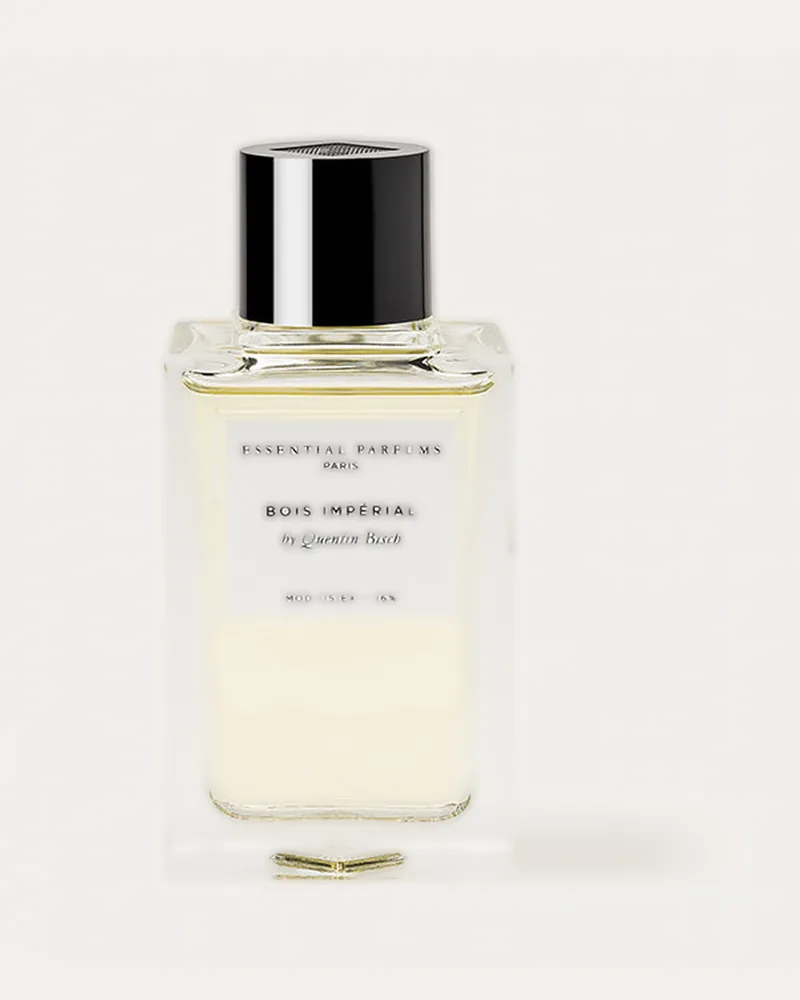
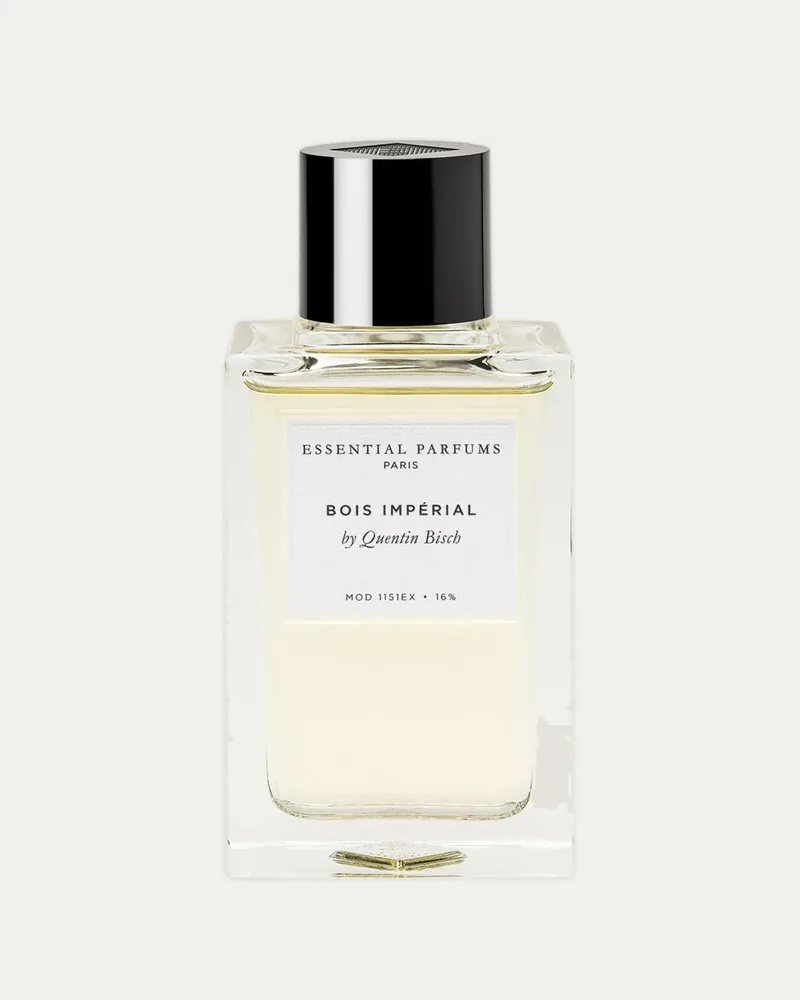
Zdjęcia: plik ze strony, gdy arkusz nie podaje zdjęcia; ostrzejsze Bois Impérial i Velvet Iris (decyzja 80)
Na żywo p83 Oud Satin Mood i p98 Wet Cherry Liquor miały kadr zastępczy,
bo w arkuszu sklepu komórki zdjecie_url są puste. app.js uzupełnia puste
pole plikiem /img/produkty/{id}-800.webp, jeśli jest na stronie; test
pilnuje zgodności listy z plikami. Nowe zdjęcia p44 i p80 z Dysku.

Claude-Session: https://claude.ai/code/session_01Vr3aaGiTkwi36SuxXxU5aS

diff --git a/dev/testy_backendu.js b/dev/testy_backendu.js
@@ -584,6 +584,24 @@ test('aktualizacja arkusza 2026-10: z importu wrześniowego i po poprzedniej akt
   });
 });
 
+test('zdjęcia: lista w app.js zgadza się z plikami, puste zdjecie z arkusza dostaje plik ze strony', () => {
+  const fs = require('fs'), path = require('path');
+  const site = path.join(__dirname, '..', 'site');
+  const src = fs.readFileSync(path.join(site, 'js', 'app.js'), 'utf8');
+  const lista = src.match(/var ZDJECIA = '([^']*)'/)[1].split(' ').map((n) => 'p' + n);
+  const pliki = fs.readdirSync(path.join(site, 'img', 'produkty')).filter((f) => /^p\d+-800\.webp$/.test(f)).map((f) => f.split('-')[0]);
+  deq(lista.slice().sort(), pliki.slice().sort());
+  lista.forEach((id) => assert.ok(fs.existsSync(path.join(site, 'img', 'produkty', id + '-400.webp')), id + '-400.webp'));
+  // każdy aktywny zapach z arkusza ma plik, więc pusta komórka zdjecie_url nie zostawia kadru zastępczego
+  const cat = be.buildCatalog_(productRows, setRows, {}, cfg, NOW);
+  const bez = cat.products.filter((p) => lista.indexOf(p.id) === -1).map((p) => p.id);
+  deq(bez, []);
+  // ta sama funkcja co w przeglądarce: uzupełnia tylko puste pole
+  const withPhotos = new Function('ZDJECIA', 'return ' + src.match(/function withPhotos\(data\) \{[\s\S]*?\n  \}/)[0])(lista.map((id) => id.slice(1)));
+  const d = withPhotos({ products: [{ id: 'p83', zdjecie: '' }, { id: 'p98' }, { id: 'p44', zdjecie: '/img/inne.webp' }, { id: 'p999', zdjecie: '' }] });
+  deq(d.products.map((p) => p.zdjecie), ['/img/produkty/p83-800.webp', '/img/produkty/p98-800.webp', '/img/inne.webp', '']);
+});
+
 (async () => {
   for (const [name, fn] of tests) {
     try { await fn(); passed++; console.log('ok   ' + name); } catch (e) { console.log('FAIL ' + name + '\n     ' + e.message); process.exitCode = 1; }

diff --git a/site/js/app.js b/site/js/app.js
@@ -95,12 +95,22 @@
     if (inflight && !force) return inflight;
     var p = N.fetchCatalog(force);
     inflight = p.then(function (data) {
-      memory = data;
+      memory = data = withPhotos(data);
       ss('set', CAT_KEY, JSON.stringify({ t: Date.now(), data: data }));
       inflight = null;
       return data;
     }, function (err) { inflight = null; throw err; });
     return inflight;
+  }
+
+  // Zapachy, których zdjęcie leży na stronie (site/img/produkty/pNN-800.webp). Gdy w arkuszu komórka zdjecie_url
+  // jest pusta, karta i szczegóły biorą ten plik zamiast kadru zastępczego. Listę pilnuje test w dev/testy_backendu.js.
+  var ZDJECIA = '01 02 03 04 05 06 07 08 09 10 11 12 14 15 16 17 19 20 21 22 23 24 25 27 28 29 30 31 32 33 34 35 36 37 38 39 40 41 42 43 44 45 46 47 48 49 50 51 52 53 54 55 56 59 61 62 63 64 65 66 67 68 69 70 71 72 73 74 75 76 77 78 79 80 81 82 83 84 85 86 87 88 89 90 91 92 93 94 95 96 97 98 99 100'.split(' ');
+  function withPhotos(data) {
+    ((data && data.products) || []).forEach(function (p) {
+      if (!p.zdjecie && ZDJECIA.indexOf(String(p.id).slice(1)) !== -1) p.zdjecie = '/img/produkty/' + p.id + '-800.webp';
+    });
+    return data;
   }
 
   function catalog(force) {
@@ -109,7 +119,7 @@
     var saved = null;
     try { saved = JSON.parse(ss('get', CAT_KEY) || 'null'); } catch (e) { saved = null; }
     if (saved && saved.data) {
-      memory = saved.data;
+      memory = withPhotos(saved.data);
       if (Date.now() - saved.t > FRESH_MS) {
         fetchFresh(true).then(function (d) { listeners.forEach(function (fn) { fn(d); }); }, function () {});
       }

diff --git a/dev/zdjecia/zdjecia_wlasciciela.py b/dev/zdjecia/zdjecia_wlasciciela.py
@@ -29,9 +29,9 @@ MIN_SIDE = 1000
 JASNE = 250          # tło JPG: piksele jaśniejsze od tego progu, połączone z krawędzią, stają się czystą bielą
 # PNG, w których wokół flakonu zostały nieprzezroczyste białe resztki tła (p64: pola obok nakrętki)
 RESZTKI_BIELI = {'p64': 245}
-# Flakon, który w źródle dotyka górnej i dolnej krawędzi (p93 biały na białym, p98): biały margines (część wysokości) i niższa
+# Flakon, który w źródle dotyka krawędzi (p93 biały na białym, p98, p44): biały margines (część wysokości) i niższa
 # czułość w ujednolic_zdjecia.py (ustawienia.json), inaczej tło wokół flakonu zostaje jako biały prostokąt.
-MARGINES = {'p93': 0.12, 'p98': 0.12}
+MARGINES = {'p93': 0.12, 'p98': 0.12, 'p44': 0.12}
 USTAWIENIA = {'p93': {'tol': 10}}
 
 # id: plik od właściciela. Większość z folderu na Dysku; p51 i p52 przysłane później w rozmowie („(czat)” w nazwie):
@@ -67,6 +67,9 @@ PLIKI = {
     'p81': 'ambre.jpg',
     'p83': 'oud.jpg',
     'p98': 'packshot_wet_cherry_liquor_2.png',
+    # 8.10 późnym wieczorem: ostrzejsze zdjęcia dwóch zapachów Essential Parfums w miejsce zdjęć ze strony marki
+    'p44': 'i-essential-parfums-bois-imp-rial-woda-perfumowana-100ml.webp',
+    'p80': 'velvet_iris.jpg',
 }
 
 

diff --git a/docs/decyzje.md b/docs/decyzje.md
@@ -125,12 +125,14 @@
 | 77 | Arkusz wdrożony, ostatnie zdjęcia | 8.10.2026 wieczorem właściciel wkleił nowy `Code.gs` i `Aktualizacja_2026_10.gs`, uruchomił `setup` i `aktualizacja_2026_10` i opublikował nową wersję wdrożenia. API od 20:31 UTC zwraca nowy format: 94 zapachy, 12 bestsellerów, 3 nowości, klimat przy 94 i odbiór przy 30 zapachach, `sprzedaz: false`; nazwy, opisy, profile, klimaty, etykiety, podobne i zdjęcia zgadzają się z `site/podglad/katalog.json` (0 różnic). Na żywo: koszyk pokazuje „Zamówienia ruszą wkrótce”, na /zamowienie 5 sekcji formularza jest wyłączonych, quiz „Dla niej” bez zapachów odbieranych jako męskie. Przez około 5 minut po wdrożeniu API zwracało stary format, bo katalog zbudowany przez poprzednią wersję leżał w pamięci podręcznej (`CACHE_SECONDS`). Plik aktualizacji ma dane w krótkich liniach: wersja z jedną linią na ok. 80 tys. znaków wklejała się z podglądu pliku tylko w części. Ostatnie zdjęcia od właściciela: p83 Oud Satin Mood, p98 Wet Cherry Liquor (z marginesem) i p81 Ambre Latte w miejsce zdjęcia producenta; zdjęcie mają wszystkie 94 aktywne zapachy. | właściciel |
 | 78 | Bestsellery i nowości w katalogu | Właściciel: opcja wyboru po bestsellerach i nowościach. Nad wynikami katalogu dwa przyciski „Bestsellery” i „Nowości” z liczbą zapachów i kropką w kolorze etykiety z karty (widoczne też na telefonie, gdzie reszta filtrów jest w szufladzie), w panelu filtrów sekcja „Wyróżnione” (Wszystkie, Bestsellery, Nowości). Wybór pokazuje się jako usuwalny chip i łączy z innymi filtrami. Adres `?pokaz=bestsellery` albo `?pokaz=nowosci` otwiera katalog z tym wyborem (np. link z Instagrama). Bez bestsellerów albo nowości w arkuszu przycisk się nie pokazuje. Przy okazji naprawiony stary błąd paska: przy 360 px i węższych przycisk „Filtry” zachodził na przełącznik „Rodziny / Marki” (przy 390 px po pojawieniu się licznika). Teraz przełącznik i „Filtry” są w jednym rzędzie, który zawija się zamiast nachodzić, a poniżej 30rem przełącznik ma krótsze etykiety „Rodziny / Marki”; sprawdzone przy 320, 360, 390, 430, 768, 1024 i 1280 px: bez nakładania i bez przewijania w bok. | właściciel, wniosek |
 | 79 | Hero: oddalone zdjęcie, cień pod paskiem, odstęp linii tytułu | Właściciel (8.10.2026, zrzut z monitora 1920 px): grafikę w hero oddalić, bo jest jej za dużo; zacienić pasek na górze; „Za ułamek ceny” nie może nachodzić na „Zapach z najwyższej półki”, więc trochę odstępu i ewentualnie delikatnie mniejsza druga linia. Przy oknie ok. 1920 × 930 px hero miało 1071 px wysokości, więc magnolia i kamień były ucięte dolną krawędzią ekranu. **Od 64rem w poziomie i od 80rem:** hero ma wysokość ekranu (`--screen-h`), ale nie więcej niż dotąd (zdjęcie na całą szerokość) i nie mniej niż tekst. Zdjęcie ma 86% szerokości hero, a na niskim ekranie mniej, tak żeby nad nim zostawał pasek nagłówka (`min(48cqw, 100cqh - 5.25rem)`, jednostki kontenera). Stoi w prawym dolnym rogu, a lewa i górna krawędź przechodzą miękko w czerń tła. Zdjęcie jest dalej w całości i bez retuszu (decyzja 7). Pod paskiem nagłówka jest ciemny cień (72% czerni przy górze, zanika 12rem niżej), więc menu i przycisk quizu nie stoją na jasnej ścianie. Tekst ma te same wymiary w vw co wcześniej, a zdjęcie odsunęło się od niego w prawo, więc przyciski nie wchodzą już na magnolię. **Tytuł:** druga linia ×1,36 zamiast ×1,47 od 80rem i ×1,3 zamiast ×1,38 na węższych ekranach, a zamiast podciągnięcia pod pierwszą linię (−0,19 i −0,18 em, decyzja 52) ma odstęp 0,06 em od 80rem i 0 na węższych. Pomiar pikseli: wcześniej zawijas „Z” wchodził na ogonek „p” w „Zapach” (8 do 24 px zależnie od szerokości), teraz cała druga linia jest poniżej najniższego ogonka pierwszej: 8 do 17 px odstępu na komputerze, 3 do 5 px na telefonie i tablecie. Na telefonie hero jest przez to wyższe o 7 do 8 px, przyciski na 360 × 740 i 390 × 844 px dalej mieszczą się na pierwszym ekranie. Sprawdzone przy 1024 × 768, 1280 × 720, 1366 × 768, 1440 × 900, 1536 × 730, 1920 × 930, 1920 × 1080 i 2560 × 1300 oraz 360, 390 i 820 px w pionie. | właściciel, pomiar |
+| 80 | Zdjęcia bez wpisu w arkuszu, ostrzejsze Essential Parfums | Właściciel: dodać na stronę zdjęcia Oud Satin Mood, Wet Cherry Liquor, Velvet Iris, Bois Impérial i Good Girl Gone Bad z Dysku. Pliki p83 i p98 były na stronie od decyzji 77, ale na żywo pokazywał się kadr zastępczy, bo w arkuszu sklepu ich komórki `zdjecie_url` są puste, a karta bierze adres z arkusza. Teraz `site/js/app.js` przy wczytaniu katalogu uzupełnia puste `zdjecie` plikiem `/img/produkty/{id}-800.webp`, jeśli ten plik jest na stronie (lista id w `app.js`, zgodność z plikami pilnuje test). Wpis w arkuszu ma pierwszeństwo, więc właściciel nadal może podać inne zdjęcie. Nowe pliki z Dysku (8.10, ok. 20:50): p44 Bois Impérial (558 × 1172 px, EDSR ×2, biały margines, bo flakon dotykał krawędzi) i p80 Velvet Iris (1000 × 1000 px) zastępują zdjęcia ze strony marki, na których etykieta była nieczytelna. Plik dla Good Girl Gone Bad (`375x500.59813.jpg`) przedstawia wersję Eau Fraîche (napis na etykiecie), a p93 w arkuszu to klasyczna woda perfumowana (nuty: kwiat pomarańczy, róża majowa, osmanthus, tuberoza, jaśmin, narcyz), więc p93 zostaje przy dotychczasowym zdjęciu od właściciela z klasycznym flakonem; do potwierdzenia, którą wersję sklep odlewa. Zdjęcia: 64 ze stron producentów, 30 od właściciela. | właściciel, wniosek |
 
 ## Otwarte
 
 * Weryfikacja `dev/dane/do-weryfikacji.csv` (118 wierszy dla 60 pozycji), w tym profil wszystkich zapachów i rodziny z członem spoza listy.
 * Opisy zestawów dla klienta. Rodzina zestawu nie jest już potrzebna do quizu (decyzja 75).
 * Większe zdjęcie p91 Roses On Ice; profil, renoma i odbiór nowych zapachów; nazwa p56 i puste podobne p11 (decyzje 75 i 76).
+* Która wersja Good Girl Gone Bad jest w sprzedaży (klasyczna czy Eau Fraîche); od tego zależy zdjęcie p93 (decyzja 80).
 * Wartości w `CONFIG` Apps Script: e-mail właściciela, BLIK, konto, odbiorca, koszty dostawy, próg darmowej dostawy.
 * Regulamin i polityka prywatności od prawnika, w tym dane sprzedawcy i ocena zasad zwrotu.
 * Skrzynka `kontakt@niccifragrance.pl` musi działać przed startem: adres jest w stopce, regulaminie, polityce i mailach.

diff --git a/docs/raport-koncowy.md b/docs/raport-koncowy.md
@@ -65,7 +65,7 @@ Hero i grafika Open Graph powstały z materiału właściciela (`refs/hero-czyst
 
 ## 3. Źródła zdjęć produktów
 
-Zdjęcie mają wszystkie 94 aktywne produkty: 66 ze stron producentów (tabela niżej, w tym 17 nowych zapachów z 8.10.2026) i 28 od właściciela (akapity pod tabelą).
+Zdjęcie mają wszystkie 94 aktywne produkty: 64 ze stron producentów (tabela niżej, w tym 16 nowych zapachów z 8.10.2026) i 30 od właściciela (akapity pod tabelą).
 
 To materiały marek. Przed startem warto potwierdzić prawo do ich użycia albo zastąpić je własnymi zdjęciami flakonów i atomizerów Nicci.
 
@@ -104,7 +104,6 @@ To materiały marek. Przed startem warto potwierdzić prawo do ich użycia albo 
 | p39 | Marc-Antoine Barrois | Ganymede | https://www.marcantoinebarrois.com/products/ganymede |  |
 | p40 | Tiziana Terenzi | Kirke | https://terenziboutique.us/products/engf |  |
 | p41 | Maison Crivelli | Oud Maracujá | https://maisoncrivelli.com/products/oud-maracuja |  |
-| p44 | Essential Parfums | Bois Impérial | https://essentialparfums.com/products/bois-imperial-eau-de-parfum-vaporisateur-rechargeable-100-ml |  |
 | p45 | Sospiro | Vibrato | https://sospirointernational.com/products/vibrato |  |
 | p46 | Nous Tous | Casa di Capri | https://nutu.store/products/nous-tous-casa-di-capri-elixir-de-parfum |  |
 | p47 | Nous Tous | Secco di Como | https://nutu.store/products/nous-tous-secco-di-como-elixir-de-parfum |  |
@@ -127,7 +126,6 @@ To materiały marek. Przed startem warto potwierdzić prawo do ich użycia albo 
 | p77 | Parfums de Marly | Sedley | https://parfums-de-marly.com/products/sedley |  |
 | p78 | Amouage | Guidance | https://amouage.com/en-eu/products/100ml-guidance |  |
 | p79 | Creed | Delphinus | https://creedboutique.com/products/delphinus |  |
-| p80 | Essential Parfums | Velvet Iris | https://essentialparfums.com/products/velvet-iris-eau-de-parfum-vaporisateur-rechargeable-100-ml |  |
 | p82 | Ormonde Jayne | Kashmir | https://www.ormondejayne.com/products/kashmir |  |
 | p84 | Nishane | Wūlóng Chá | https://nishane.com/product/wulong-cha/ |  |
 | p85 | Sospiro | Basso | https://sospirointernational.com/products/basso |  |
@@ -140,7 +138,7 @@ To materiały marek. Przed startem warto potwierdzić prawo do ich użycia albo 
 
 **Zdjęcia od właściciela (24.09.2026):** wszystkie 15 produktów, których strony producentów blokują pobieranie (p01 do p05, p42, p43, p51 do p55, p63 do p65), ma zdjęcie od właściciela: 13 z folderu „Nicci Fragrance” na Dysku, p51 i p52 z plików przysłanych w rozmowie. Pliki i rozmiary źródeł: `dev/zdjecia/zrodla-wlasciciel.csv`, obróbka opisana w `docs/03-plan-grafik.md`.
 
-**Zdjęcia od właściciela (8.10.2026):** 10 nowych zapachów, których strony marek blokują pobieranie: p56, p73, p89 do p94, p99 i p100, z folderu „Zdjęcia strona” na Dysku. Pliki i rozmiary źródeł: `dev/zdjecia/zrodla-wlasciciel.csv`. p91 Roses On Ice ma źródło 225 × 225 px (EDSR ×4), więc na karcie jest miękkie. Wieczorem tego samego dnia trzy kolejne: p83 Oud Satin Mood (554 × 554 px, EDSR ×2), p98 Wet Cherry Liquor (265 × 265 px, EDSR ×4, z marginesem, bo flakon dotykał krawędzi) i p81 Ambre Latte (800 × 800 px, EDSR ×2) w miejsce zdjęcia ze strony producenta.
+**Zdjęcia od właściciela (8.10.2026):** 10 nowych zapachów, których strony marek blokują pobieranie: p56, p73, p89 do p94, p99 i p100, z folderu „Zdjęcia strona” na Dysku. Pliki i rozmiary źródeł: `dev/zdjecia/zrodla-wlasciciel.csv`. p91 Roses On Ice ma źródło 225 × 225 px (EDSR ×4), więc na karcie jest miękkie. Wieczorem tego samego dnia trzy kolejne: p83 Oud Satin Mood (554 × 554 px, EDSR ×2), p98 Wet Cherry Liquor (265 × 265 px, EDSR ×4, z marginesem, bo flakon dotykał krawędzi) i p81 Ambre Latte (800 × 800 px, EDSR ×2) w miejsce zdjęcia ze strony producenta. Później p44 Bois Impérial (558 × 1172 px, EDSR ×2, z marginesem) i p80 Velvet Iris (1000 × 1000 px), ostrzejsze niż zdjęcia ze strony marki, na których etykieta była nieczytelna.
 
 ## 4. Wyniki audytu
 
@@ -195,7 +193,7 @@ Wiersze strony głównej zmierzone po przebudowie hero według makiety (24.09); 
 
 | Zestaw | Wynik | Co sprawdza |
 |---|---|---|
-| `node dev/testy_backendu.js` | 35/35 | katalog, rezerwacje, walidacja, wycena, braki stanu, numeracja, maile, przewoźnicy, bony i dni robocze, stan bez liczenia ml, odpowiedź zamówienia, zgodność z `nicci-api.js`, wstrzymana sprzedaż; od 8.10 także dobór w quizie (`site/js/dobor.js`, w tym 324 kombinacje „Dla niej” i „Dla niego” bez zapachów odbieranych przeciwnie) i jednorazowa aktualizacja arkusza właściciela z dwóch stanów wyjściowych na atrapie arkusza |
+| `node dev/testy_backendu.js` | 36/36 | katalog, rezerwacje, walidacja, wycena, braki stanu, numeracja, maile, przewoźnicy, bony i dni robocze, stan bez liczenia ml, odpowiedź zamówienia, zgodność z `nicci-api.js`, wstrzymana sprzedaż; od 8.10 także dobór w quizie (`site/js/dobor.js`, w tym 324 kombinacje „Dla niej” i „Dla niego” bez zapachów odbieranych przeciwnie) i jednorazowa aktualizacja arkusza właściciela z dwóch stanów wyjściowych na atrapie arkusza, a także lista zdjęć w `site/js/app.js` zgodna z plikami |
 | `node dev/testy_readme.js` | 22/22 | testy 1, 2, 3 i 7 z README na całej ścieżce: przeglądarka, formularz, atrapa backendu; od 24.09 także kod bonu (rabat, drugie użycie, próg, termin, nieznany kod) |
 | `node dev/testy_wstrzymanie.js` | 10/10 | sprzedaż wstrzymana: katalog działa, koszyk bez przejścia do zamówienia, formularz wyłączony, backend odrzuca zamówienie bez zapisu, brak ofert w danych strukturalnych |
 
